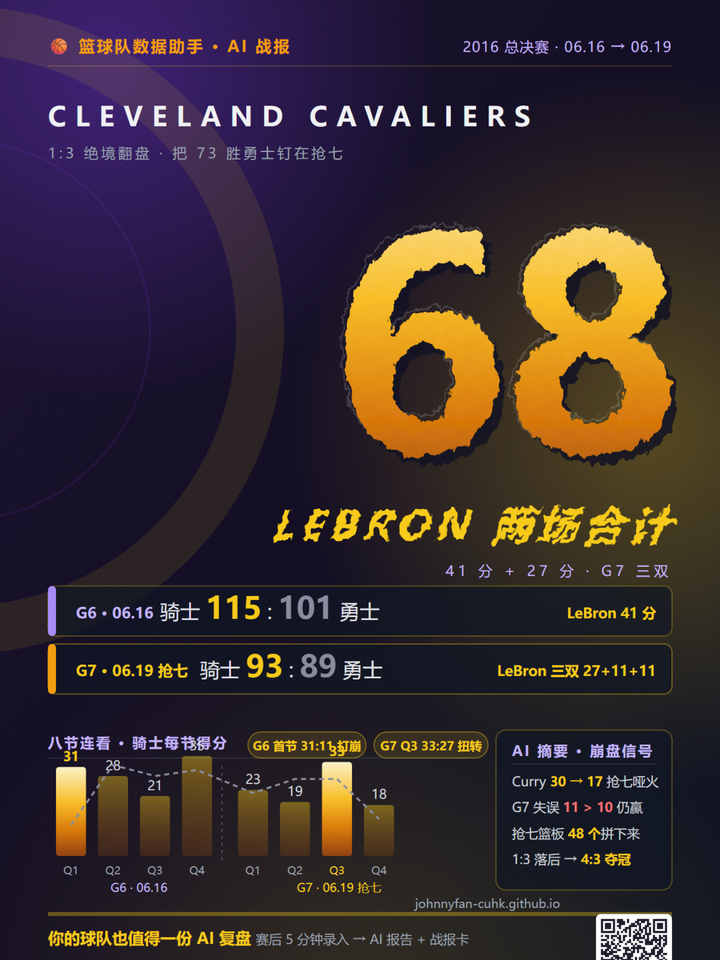
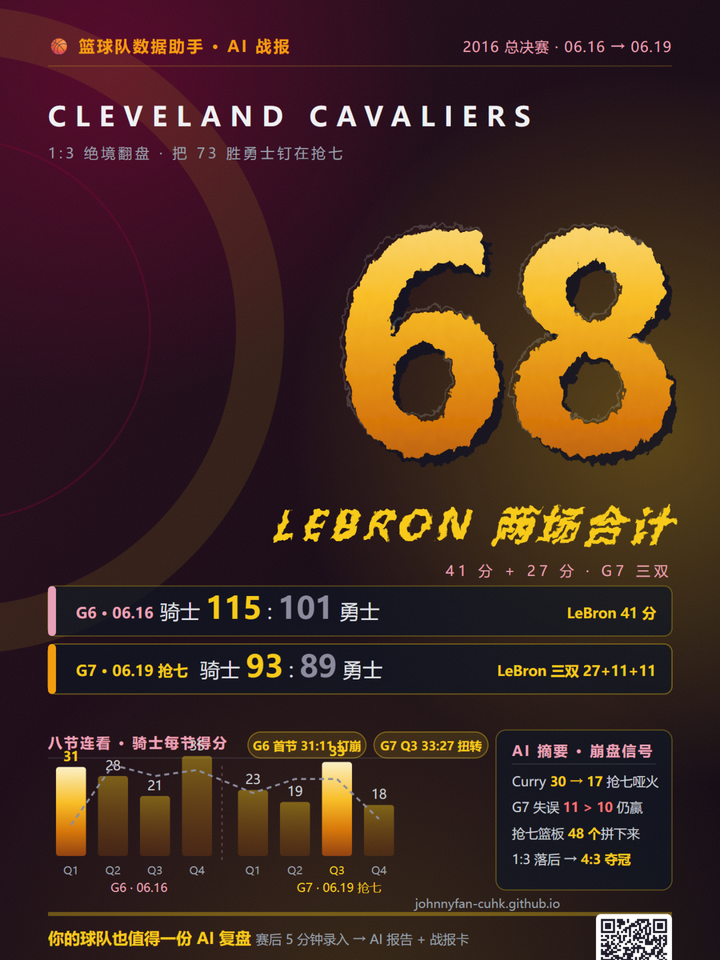
marketing: G6→G7 海报换骑士酒红主题（球队专属配色：骑士酒红+金 / 湖人紫+金）

diff --git a/marketing/poster_g67.html b/marketing/poster_g67.html
@@ -9,7 +9,7 @@
 <svg width="720" height="960" viewBox="0 0 720 960" xmlns="http://www.w3.org/2000/svg" font-family="'Microsoft YaHei','Segoe UI',sans-serif">
   <defs>
     <linearGradient id="bg" x1="0" y1="0" x2="1" y2="1">
-      <stop offset="0" stop-color="#1a1030"/><stop offset=".5" stop-color="#0f0a20"/><stop offset="1" stop-color="#0b1220"/>
+      <stop offset="0" stop-color="#2c0d1e"/><stop offset=".5" stop-color="#190a16"/><stop offset="1" stop-color="#120a14"/>
     </linearGradient>
     <linearGradient id="gold" x1="0" y1="0" x2="0" y2="1">
       <stop offset="0" stop-color="#fef3c7"/><stop offset=".4" stop-color="#fbbf24"/><stop offset=".72" stop-color="#d97706"/><stop offset="1" stop-color="#92400e"/>
@@ -18,7 +18,7 @@
       <stop offset="0" stop-color="rgba(250,204,21,.42)"/><stop offset="1" stop-color="rgba(180,83,9,.22)"/>
     </linearGradient>
     <radialGradient id="glowP" cx=".5" cy=".5" r=".5">
-      <stop offset="0" stop-color="rgba(124,58,237,.38)"/><stop offset="1" stop-color="rgba(124,58,237,0)"/>
+      <stop offset="0" stop-color="rgba(142,0,56,.45)"/><stop offset="1" stop-color="rgba(142,0,56,0)"/>
     </radialGradient>
     <radialGradient id="glowG" cx=".5" cy=".5" r=".5">
       <stop offset="0" stop-color="rgba(250,204,21,.30)"/><stop offset="1" stop-color="rgba(250,204,21,0)"/>
@@ -42,10 +42,10 @@
   <circle cx="650" cy="430" r="360" fill="url(#glowG)"/>
   <circle cx="360" cy="1010" r="420" fill="url(#glowG)" opacity=".5"/>
   <circle cx="-40" cy="330" r="300" fill="none" stroke="rgba(250,204,21,.10)" stroke-width="48"/>
-  <circle cx="-40" cy="330" r="190" fill="none" stroke="rgba(124,58,237,.12)" stroke-width="2"/>
+  <circle cx="-40" cy="330" r="190" fill="none" stroke="rgba(142,0,56,.28)" stroke-width="2"/>
 
   <text x="48" y="52" font-size="16" font-weight="700" fill="#f59e0b" letter-spacing="2">🏀 篮球队数据助手 · AI 战报</text>
-  <text x="672" y="52" font-size="14" fill="#c4b5fd" letter-spacing="1" text-anchor="end">2016 总决赛 · 06.16 → 06.19</text>
+  <text x="672" y="52" font-size="14" fill="#f0a3b8" letter-spacing="1" text-anchor="end">2016 总决赛 · 06.16 → 06.19</text>
   <line x1="48" y1="66" x2="672" y2="66" stroke="rgba(250,204,21,.25)" stroke-width="1"/>
 
   <text x="48" y="126" font-size="27" fill="#f3f4f6" letter-spacing="9" font-weight="600">CLEVELAND CAVALIERS</text>
@@ -59,13 +59,13 @@
   <g filter="url(#brushSoft)">
     <text x="270" y="540" font-size="40" font-style="italic" font-weight="900" letter-spacing="6" fill="#facc15" transform="skewX(-8)" transform-origin="270 540">LEBRON 两场合计</text>
   </g>
-  <text x="672" y="576" font-size="14" fill="#c4b5fd" letter-spacing="4" text-anchor="end">41 分 + 27 分 · G7 三双</text>
+  <text x="672" y="576" font-size="14" fill="#f0a3b8" letter-spacing="4" text-anchor="end">41 分 + 27 分 · G7 三双</text>
 
   <!-- 两条比分条 -->
   <g>
     <rect x="48" y="586" width="624" height="50" rx="8" fill="rgba(11,18,32,.72)" stroke="rgba(250,204,21,.35)"/>
-    <rect x="48" y="586" width="8" height="50" rx="4" fill="#a78bfa"/>
-    <text x="76" y="618" font-size="15" fill="#c4b5fd" font-weight="700">G6 · 06.16</text>
+    <rect x="48" y="586" width="8" height="50" rx="4" fill="#e8a2b8"/>
+    <text x="76" y="618" font-size="15" fill="#f0a3b8" font-weight="700">G6 · 06.16</text>
     <text x="160" y="619" font-size="20" fill="#e5e7eb">骑士 <tspan font-size="30" font-weight="900" fill="#facc15">115</tspan> : <tspan font-size="30" font-weight="900" fill="#8b8b9e">101</tspan> 勇士</text>
     <text x="656" y="618" font-size="14" fill="#facc15" text-anchor="end" font-weight="700">LeBron 41 分</text>
   </g>
@@ -79,7 +79,7 @@
 
   <!-- 左：8 节走势（G6|G7） -->
   <g>
-    <text x="48" y="748" font-size="14" font-weight="700" fill="#c4b5fd" letter-spacing="2">八节连看 · 骑士每节得分</text>
+    <text x="48" y="748" font-size="14" font-weight="700" fill="#f0a3b8" letter-spacing="2">八节连看 · 骑士每节得分</text>
     <rect x="248" y="732" width="118" height="26" rx="13" fill="rgba(250,204,21,.12)" stroke="rgba(250,204,21,.45)"/>
     <text x="307" y="750" font-size="12" font-weight="700" fill="#facc15" text-anchor="middle">G6 首节 31:11 打崩</text>
     <rect x="374" y="732" width="114" height="26" rx="13" fill="rgba(250,204,21,.12)" stroke="rgba(250,204,21,.45)"/>
@@ -104,7 +104,7 @@
     <text x="337" y="756" font-size="13" font-weight="700" fill="#facc15" text-anchor="middle">33</text>
     <text x="379" y="799" font-size="13" fill="#d1d5db" text-anchor="middle">18</text>
     <polyline points="71,825 113,765 155,776 197,770 253,793 295,779 337,779 379,819" fill="none" stroke="#8b8b9e" stroke-width="2" stroke-dasharray="5 4"/>
-    <line x1="222" y1="766" x2="222" y2="860" stroke="rgba(196,181,253,.4)" stroke-dasharray="3 4"/>
+    <line x1="222" y1="766" x2="222" y2="860" stroke="rgba(240,163,184,.4)" stroke-dasharray="3 4"/>
     <text x="71" y="874" font-size="11" fill="#9ca3af" text-anchor="middle">Q1</text>
     <text x="113" y="874" font-size="11" fill="#9ca3af" text-anchor="middle">Q2</text>
     <text x="155" y="874" font-size="11" fill="#9ca3af" text-anchor="middle">Q3</text>
@@ -113,7 +113,7 @@
     <text x="295" y="874" font-size="11" fill="#9ca3af" text-anchor="middle">Q2</text>
     <text x="337" y="874" font-size="11" fill="#facc15" text-anchor="middle">Q3</text>
     <text x="379" y="874" font-size="11" fill="#9ca3af" text-anchor="middle">Q4</text>
-    <text x="139" y="892" font-size="12" fill="#c4b5fd" text-anchor="middle">G6 · 06.16</text>
+    <text x="139" y="892" font-size="12" fill="#f0a3b8" text-anchor="middle">G6 · 06.16</text>
     <text x="339" y="892" font-size="12" fill="#facc15" text-anchor="middle">G7 · 06.19 抢七</text>
     <text x="71" y="761" font-size="13" fill="none"/>
   </g>
@@ -121,7 +121,7 @@
   <!-- 右：崩盘信号侧栏 -->
   <g>
     <rect x="496" y="730" width="176" height="160" rx="10" fill="rgba(11,18,32,.72)" stroke="rgba(250,204,21,.35)"/>
-    <text x="512" y="756" font-size="14" font-weight="700" fill="#c4b5fd" letter-spacing="2">AI 摘要 · 崩盘信号</text>
+    <text x="512" y="756" font-size="14" font-weight="700" fill="#f0a3b8" letter-spacing="2">AI 摘要 · 崩盘信号</text>
     <line x1="512" y1="764" x2="656" y2="764" stroke="rgba(148,163,184,.2)"/>
     <text x="512" y="786" font-size="13" fill="#d1d5db">Curry <tspan fill="#facc15" font-weight="700">30 → 17</tspan> 抢七哑火</text>
     <text x="512" y="812" font-size="13" fill="#d1d5db">G7 失误 <tspan fill="#f87171" font-weight="700">11 &gt; 10</tspan> 仍赢</text>
